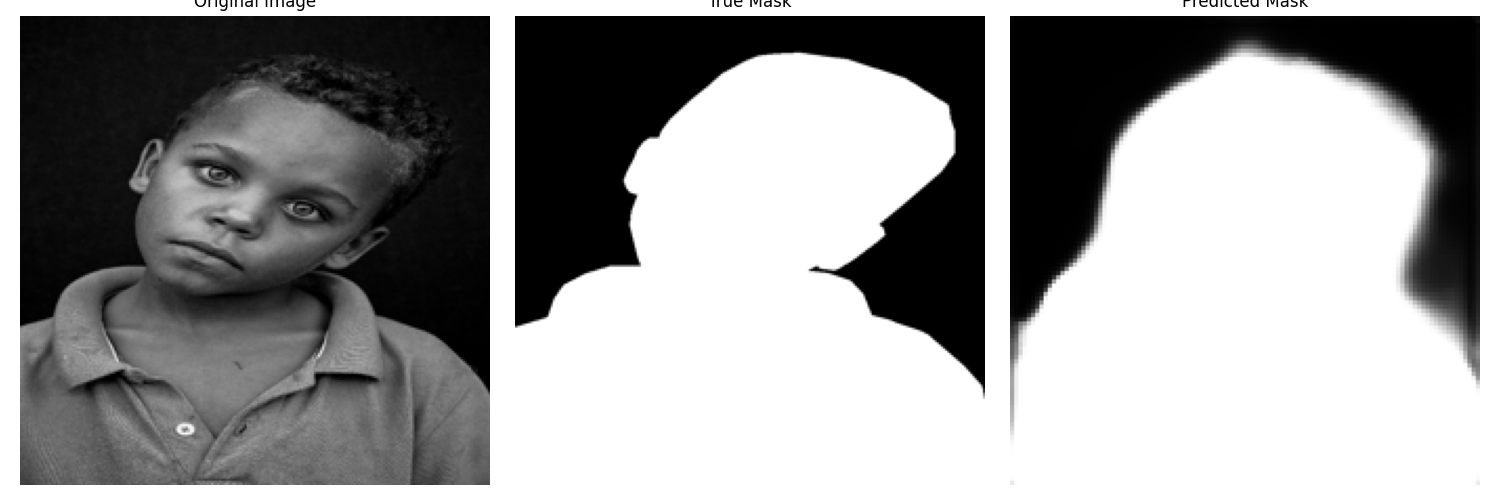
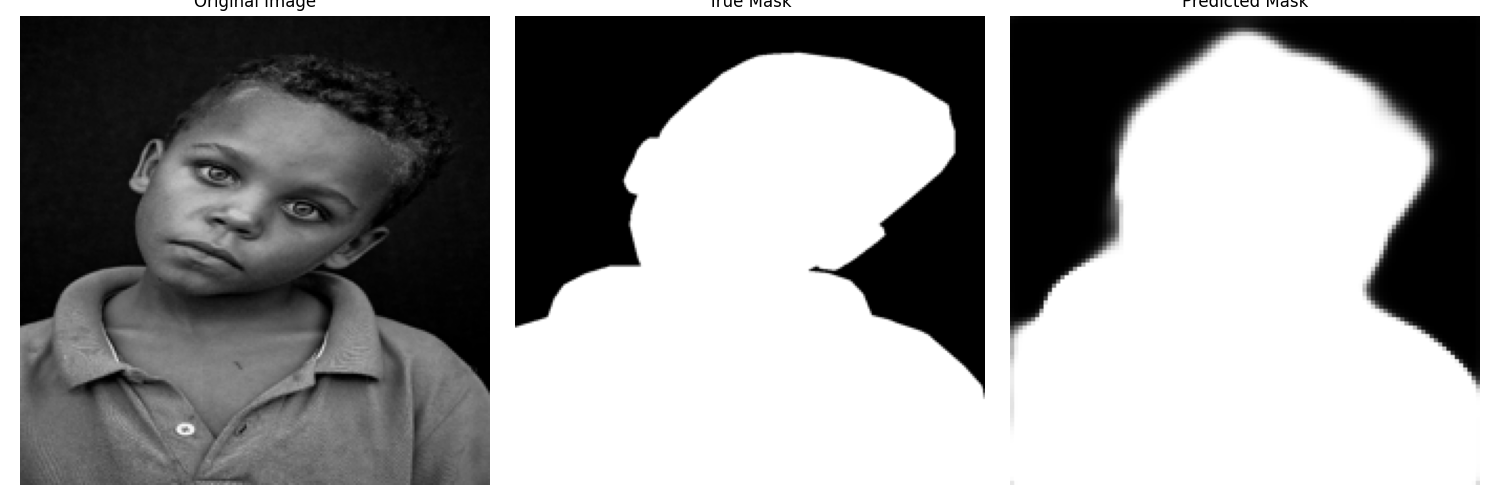
tweaked unet model to combat overfitting

Changed region(s): [[0.8893, 0.27, 1.0, 0.78], [0.6747, 0.06, 0.92, 0.75], [0.92, 0.18, 0.9507, 0.27]]

diff --git a/models/unet_model.py b/models/unet_model.py
@@ -5,11 +5,11 @@ from preprocess import load_and_preprocess_data
 from tensorflow.keras.applications import MobileNetV2
 from tensorflow.keras.optimizers import Adam
 from sklearn.model_selection import train_test_split
-from tensorflow.keras.layers import UpSampling2D, BatchNormalization
-from tensorflow.keras.layers import Input, Conv2D, Conv2DTranspose, Concatenate
+from tensorflow.keras.layers import Input, Conv2D, Conv2DTranspose, Concatenate, Dropout, UpSampling2D, BatchNormalization
 from tensorflow.keras.models import Model
 import matplotlib.pyplot as plt
 from sklearn.metrics import accuracy_score, jaccard_score
+from tensorflow.keras.callbacks import EarlyStopping
 
 # get data directory respectively
 parent_dir = os.path.dirname(os.path.abspath(__file__))
@@ -43,7 +43,7 @@ test_dataset = tf.data.Dataset.from_tensor_slices((X_test, y_test))
 test_dataset = test_dataset.batch(batch_size)
 
 # modular decoder block for decoder part of UNET model
-def decoder_block(first, x, skip, filters):
+def decoder_block(first, x, skip, filters, dropout_rate=0.2):
     if first:
         x = UpSampling2D((4, 4))(x)
     else:
@@ -51,8 +51,10 @@ def decoder_block(first, x, skip, filters):
     x = Concatenate()([x, skip])
     x = Conv2D(filters, 3, activation='relu', padding='same')(x)
     x = BatchNormalization()(x)
+    x = Dropout(dropout_rate)(x)
     x = Conv2D(filters, 3, activation='relu', padding='same')(x)
     x = BatchNormalization()(x)
+    x = Dropout(dropout_rate)(x)
     return x
 
 def unet_model():
@@ -91,8 +93,11 @@ unet.compile(optimizer=Adam(learning_rate=0.001), loss='binary_crossentropy', me
 # print model summary
 unet.summary()
 
+# configure early stopping
+early_stopping = EarlyStopping(monitor='val_loss', patience=5, verbose=1, restore_best_weights=True)
+
 # fit UNET model
-history = unet.fit(train_dataset, epochs=25, validation_data=val_dataset)
+history = unet.fit(train_dataset, epochs=50, validation_data=val_dataset, callbacks=[early_stopping])
 
 # plot training history
 plt.figure(figsize=(12, 5))
@@ -166,5 +171,5 @@ for i, (images, true_masks) in enumerate(test_dataset):
     predicted_masks = unet.predict(images)
     
     # plot and save images + true masks + predicted masks for some examples
-    for j in range(min(len(images), 5)):
+    for j in range(min(len(images), 10)):
         plot_and_save_images(images, true_masks, predicted_masks, j)
